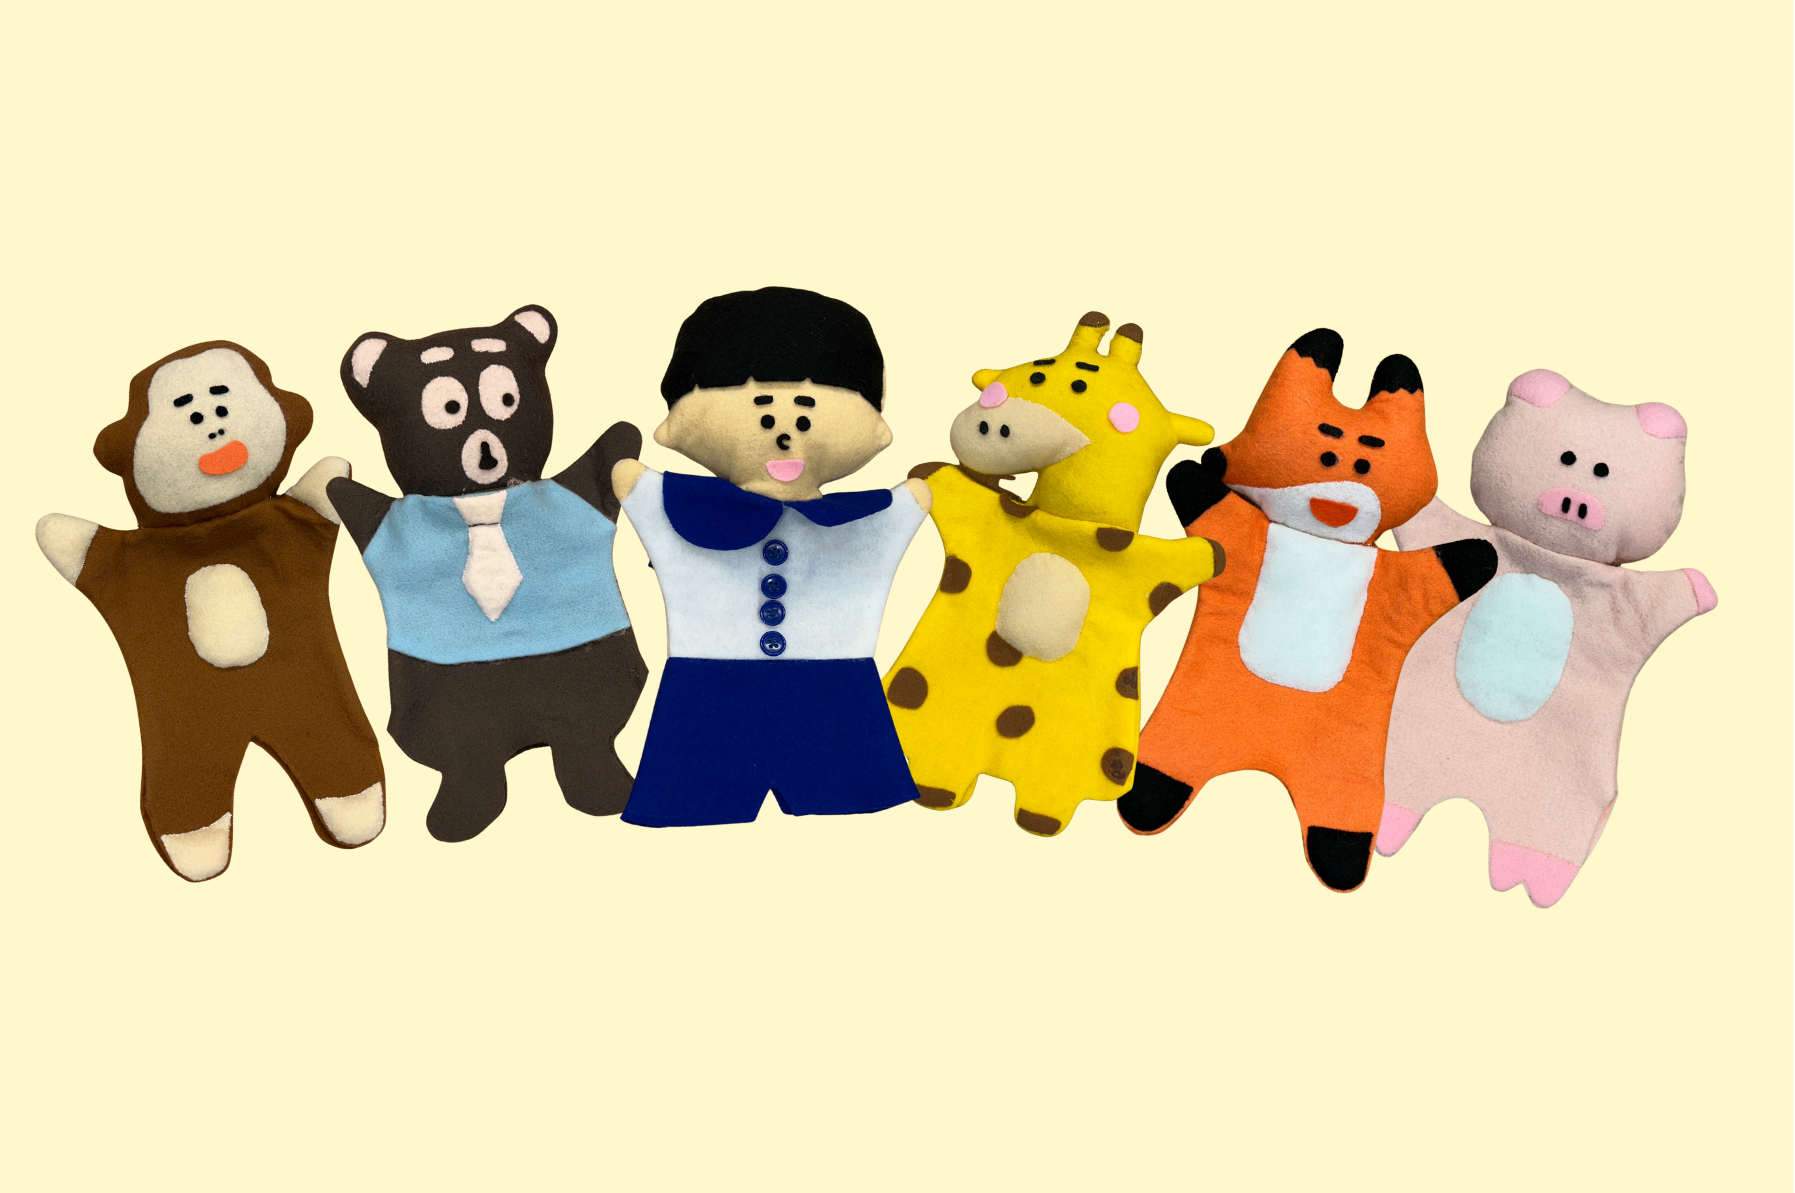
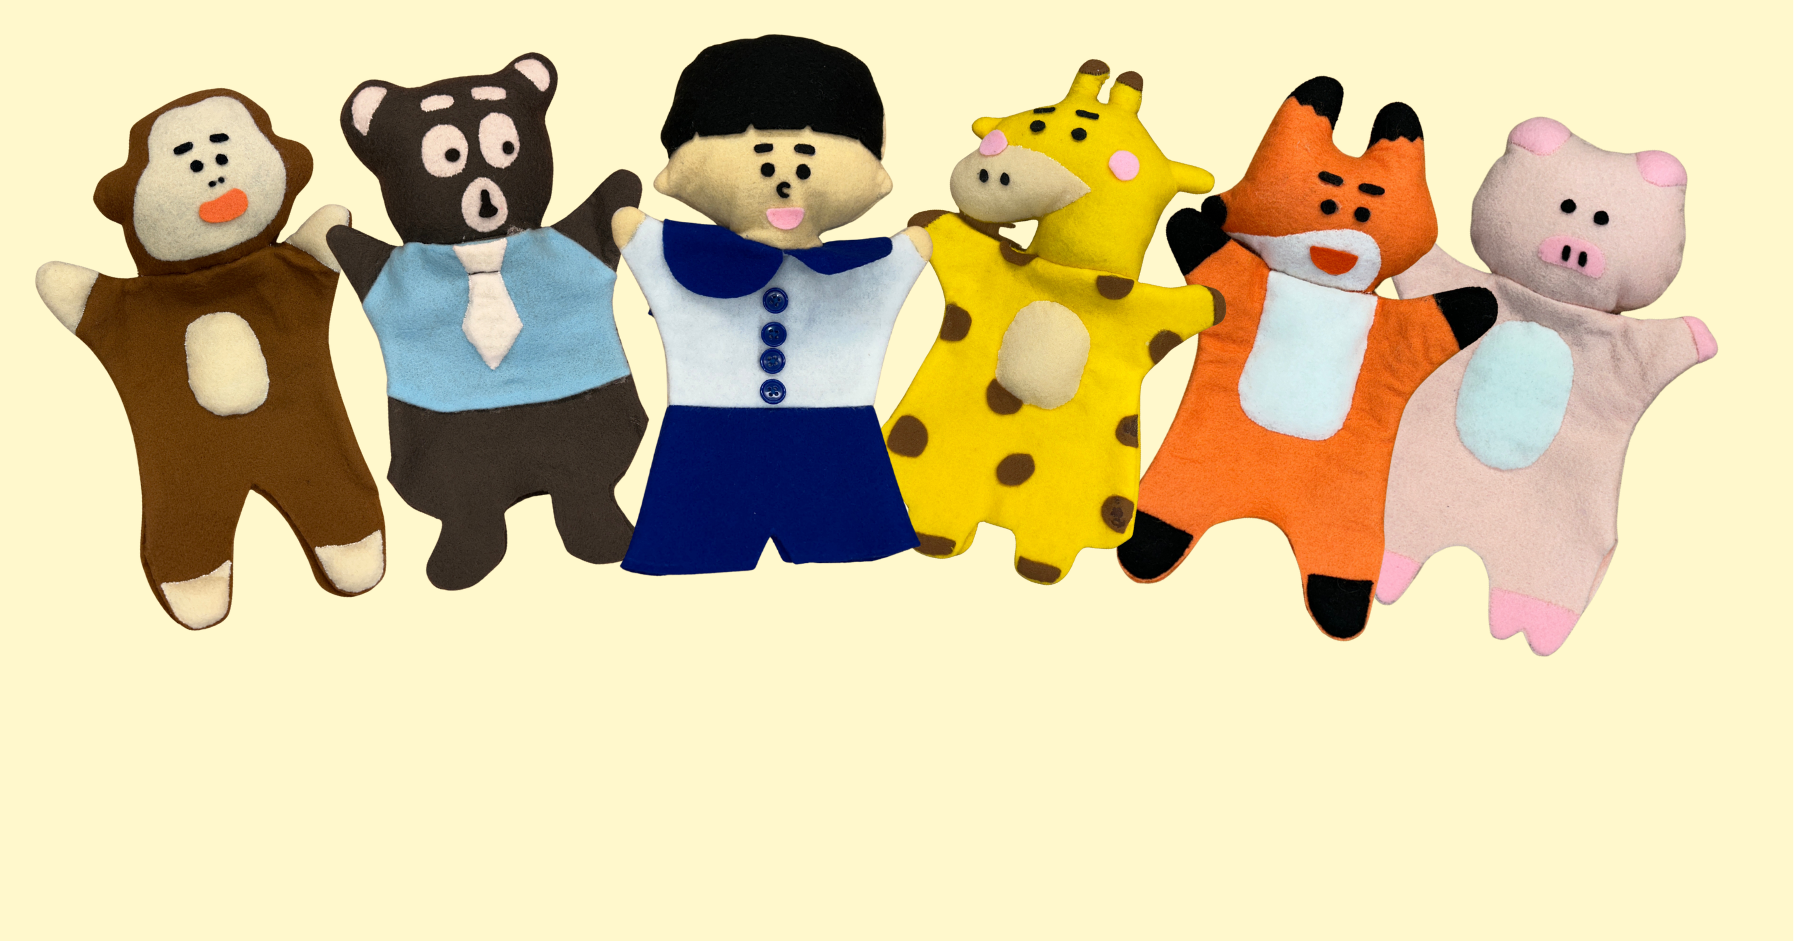
new: version stable

diff --git a/pages/resources.html b/pages/resources.html
@@ -104,23 +104,47 @@
                     <div class="tool-content-container">
                         <!-- 我是身體小主人內容 -->
                         <div class="tool-content active" id="ebook1">
-                            <h3>我是身體小主人</h3>
-                            <p>這裡可以放置「我是身體小主人」的電子資源內容。</p>
-                            <p>包括影片、互動資源等。</p>
+                            <!-- YouTube影片嵌入 -->
+                            <div class="video-container">
+                                <iframe
+                                    src="https://www.youtube.com/embed/VIDEO_ID"
+                                    title="我是身體小主人 - 電子書"
+                                    frameborder="0"
+                                    allow="accelerometer; autoplay; clipboard-write; encrypted-media; gyroscope; picture-in-picture"
+                                    allowfullscreen>
+                                </iframe>
+                            </div>
+                            <p>在電子書裡，我們為每一位角色配置了專屬的聲音，讓孩子在聆聽和觀看的過程中，能更有臨場感，也更容易記住我們想傳達的教學內容。在互動操作的頁面中，我們特別加入了時間延宕的設計，讓孩子有足夠的思考時間去回答問題或完成任務。我們希望這本電子書不只是輔助教材，而是能讓孩子邊玩邊學，真正享受閱讀與學習的過程。</p>
                         </div>
 
                         <!-- 我要上學趣內容 -->
                         <div class="tool-content" id="ebook2">
-                            <h3>我要上學趣</h3>
-                            <p>這裡可以放置「我要上學趣」的電子資源內容。</p>
-                            <p>包括影片、互動資源等。</p>
+                            <!-- YouTube影片嵌入 -->
+                            <div class="video-container">
+                                <iframe
+                                    src="https://www.youtube.com/embed/VIDEO_ID"
+                                    title="我要上學趣 - 電子書"
+                                    frameborder="0"
+                                    allow="accelerometer; autoplay; clipboard-write; encrypted-media; gyroscope; picture-in-picture"
+                                    allowfullscreen>
+                                </iframe>
+                            </div>
+                            <p>在電子書裡，我們為每一位角色配置了專屬的聲音，讓孩子在聆聽和觀看的過程中，能更有臨場感，也更容易記住我們想傳達的教學內容。在互動操作的頁面中，我們特別加入了時間延宕的設計，讓孩子有足夠的思考時間去回答問題或完成任務。我們希望這本電子書不只是輔助教材，而是能讓孩子邊玩邊學，真正享受閱讀與學習的過程。</p>
                         </div>
 
                         <!-- 我會交朋友內容 -->
                         <div class="tool-content" id="ebook3">
-                            <h3>我會交朋友</h3>
-                            <p>這裡可以放置「我會交朋友」的電子資源內容。</p>
-                            <p>包括影片、互動資源等。</p>
+                            <!-- YouTube影片嵌入 -->
+                            <div class="video-container">
+                                <iframe
+                                    src="https://www.youtube.com/embed/VIDEO_ID"
+                                    title="我會交朋友 - 電子書"
+                                    frameborder="0"
+                                    allow="accelerometer; autoplay; clipboard-write; encrypted-media; gyroscope; picture-in-picture"
+                                    allowfullscreen>
+                                </iframe>
+                            </div>
+                            <p>在電子書裡，我們為每一位角色配置了專屬的聲音，讓孩子在聆聽和觀看的過程中，能更有臨場感，也更容易記住我們想傳達的教學內容。在互動操作的頁面中，我們特別加入了時間延宕的設計，讓孩子有足夠的思考時間去回答問題或完成任務。我們希望這本電子書不只是輔助教材，而是能讓孩子邊玩邊學，真正享受閱讀與學習的過程。</p>
                         </div>
                     </div>
                 </div>

diff --git a/pages/tool3.html b/pages/tool3.html
@@ -115,9 +115,10 @@
 
                         <!-- 角色手偶內容 -->
                         <div class="tool-content" id="puppets">
-                            <div style="text-align: center; margin: 0 0 30px 0;">
-                                <img src="../images/角色手偶.png" alt="角色手偶" style="max-width: 100%; height: auto; border-radius: 8px; box-shadow: 0 4px 8px rgba(0, 0, 0, 0.1); clip-path: inset(24% 2% 24% 2%);">
+                            <div style="text-align: center; margin: 0; padding: 0;">
+                                <img src="../images/角色手偶.png" alt="角色手偶" style="max-width: 100%; height: auto; border-radius: 8px; box-shadow: 0 4px 8px rgba(0, 0, 0, 0.1); clip-path: inset(0% 2% 0% 2%); display: block; margin: 0 auto;">
                             </div>
+                            <p>我們利用不織布製作角色手偶，搭配情境卡牌及森林小學劇場，家長和老師可帶領小朋友把情境搬上舞台，把角色帶入後，不僅能增進孩子的語言表達能力與創意思考。</p>
                         </div>
 
                         <!-- 舞台內容 -->
@@ -185,11 +186,23 @@
 
             // 監聽按鈕點擊
             buttons.forEach(function(button) {
-                button.addEventListener('click', function() {
+                button.addEventListener('click', function(e) {
+                    e.preventDefault(); // 阻止默認行為
+                    // 如果點擊的是已經active的按鈕，不做任何操作
+                    if (this.classList.contains('active')) {
+                        return;
+                    }
                     const targetId = this.getAttribute('data-target');
                     switchContent(targetId, false);
                     // 更新 URL hash（但不滾動頁面）
                     history.pushState(null, null, '#' + targetId);
+                    // 滾動到標題位置
+                    setTimeout(function() {
+                        const titleElement = document.getElementById('tool-title');
+                        if (titleElement) {
+                            titleElement.scrollIntoView({ behavior: 'smooth', block: 'start' });
+                        }
+                    }, 100);
                 });
             });
 
@@ -207,6 +220,22 @@
             // 監聽 hash 變化（瀏覽器前進後退時）
             window.addEventListener('hashchange', function() {
                 checkHashAndSwitch();
+            });
+
+            // 監聽導航欄中的森林小學劇場子選單鏈接
+            const navLinks = document.querySelectorAll('a[href*="tool3.html#"]');
+            navLinks.forEach(function(link) {
+                link.addEventListener('click', function(e) {
+                    const href = this.getAttribute('href');
+                    const targetHash = href.split('#')[1];
+                    const currentHash = window.location.hash.substring(1);
+
+                    // 如果點擊的是當前已經顯示的內容，阻止默認行為
+                    if (targetHash === currentHash) {
+                        e.preventDefault();
+                        return false;
+                    }
+                });
             });
         });
     </script>

diff --git a/index.html b/index.html
@@ -111,13 +111,7 @@
             <div class="container">
                 <div class="video-container">
                     <!-- YouTube影片嵌入 - 請替換下方的VIDEO_ID為實際的YouTube影片ID -->
-                    <iframe
-                        src="https://www.youtube.com/embed/VIDEO_ID"
-                        title="介紹影片"
-                        frameborder="0"
-                        allow="accelerometer; autoplay; clipboard-write; encrypted-media; gyroscope; picture-in-picture"
-                        allowfullscreen>
-                    </iframe>
+                    <iframe src="https://www.youtube.com/embed/5dLb3EvzJgA?si=myauE607MNSjAJfp" title="YouTube video player" frameborder="0" allow="accelerometer; autoplay; clipboard-write; encrypted-media; gyroscope; picture-in-picture; web-share" referrerpolicy="strict-origin-when-cross-origin" allowfullscreen></iframe>
                 </div>
                 <div class="section-content">
                     <p>這裡可以放置影片的說明文字或補充資訊。</p>
